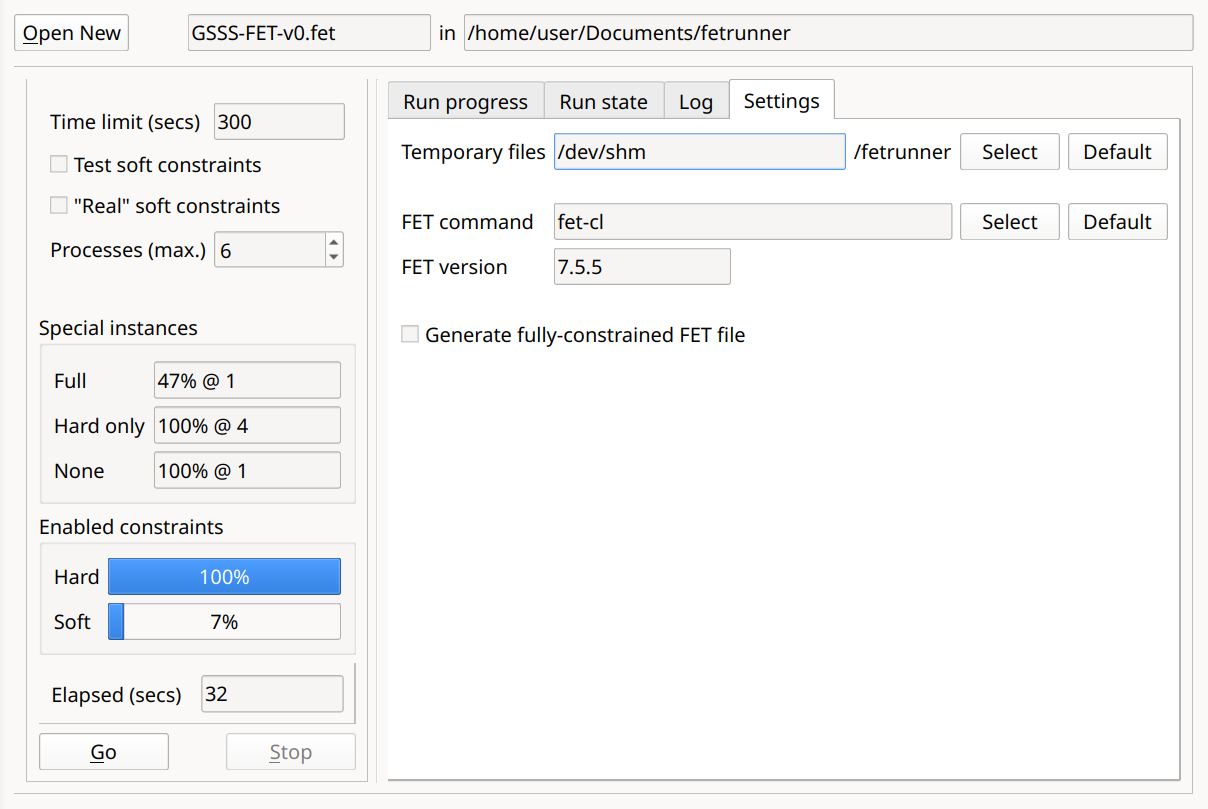
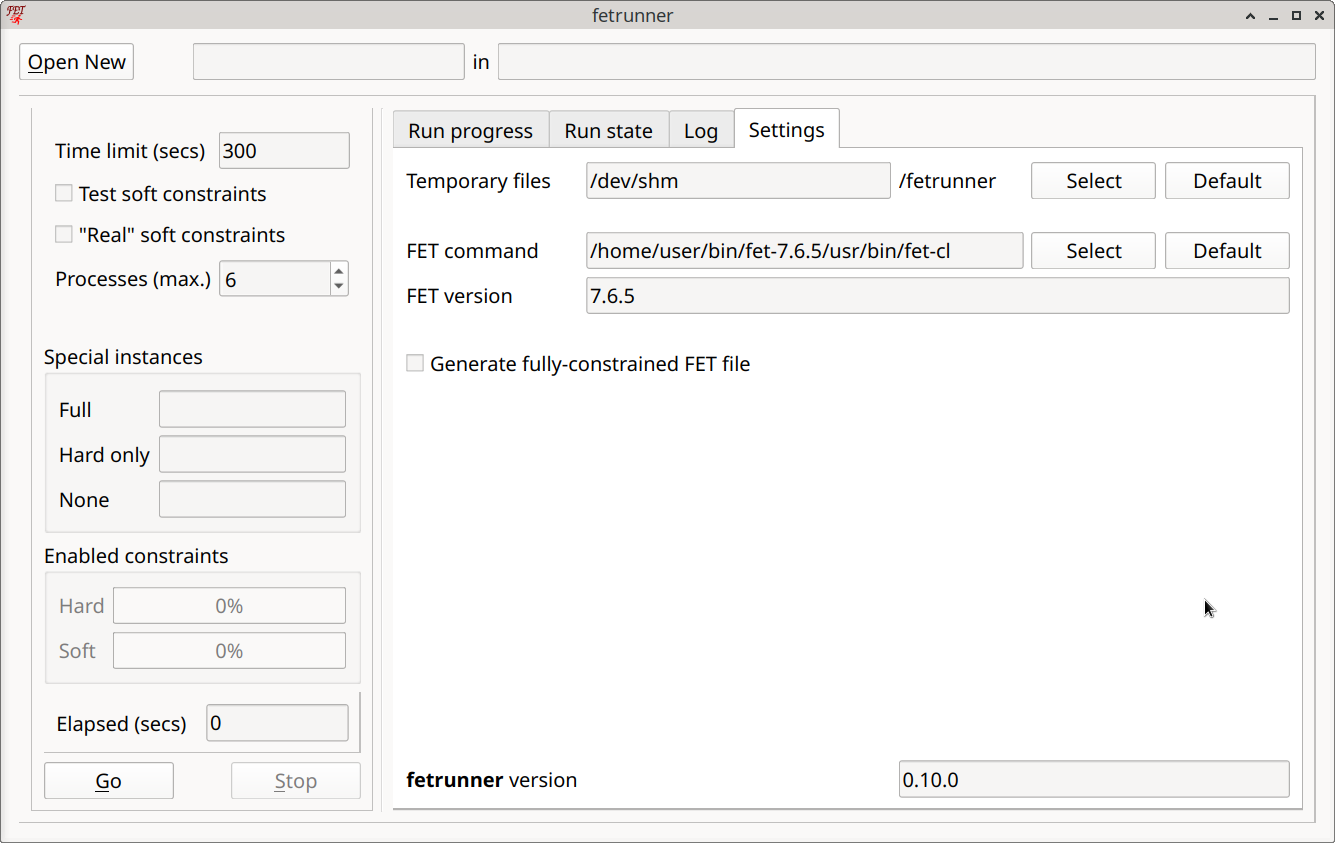
Update docs

Changed region(s): [[0.0, 0.0, 1.0, 1.0], [0.0306, 0.4635, 0.0919, 0.4944], [0.8882, 0.7108, 0.9189, 0.7417]]

diff --git a/docs/using_the_gui.md b/docs/using_the_gui.md
@@ -62,7 +62,23 @@ When all the individual constraints of a type have been "accepted" (found to be 
 
 ![run state tab](./images/Screenshot_03.png)
 
-This table shows the progress (in percent) of the currently running single-constraint-type `FET` instances (i.e. excluding the "special" instances), many of which will be terminated before completion.
+On this page there are two tables. At the top, all the single-constraint-type `FET` instances are shown which completed successfully _and_ which were "accepted", i.e. whose constraints have been added to the running collection.
+
+The numeric columns display (for the associated constraint type):
+
+	1) a simple line number, showing acceptance order;
+
+    2) the number of individual constraints being tested in this instance;
+
+    3) the total number of individual constraints;
+
+This table also shows single constraints which have been "rejected" (because they may be impossible), as can be seen in the following screenshot:
+
+![run state tab, some eliminated](./images/Screenshot_03a.png)
+
+Instead of the number of constraints, "--- [n]" is shown. The number in square brackets is the index given to the rejected constraint in the "xxx_Result.fet" file produced by this run. This should help to find exactly which constraint this line refers to. These entries also have a tool-tip, which can indicate why the constraint was rejected.
+
+At the bottom of the page, the currently running instances are shown together with their progress (in percent) (excluding the "special" instances). Many of these will be terminated before completion. Even if one reaches 100%, it will only be "accepted" (and this transferred to the upper table) if it is the first one in the current group to do so.
 
 The numeric columns display (for the associated constraint type):
 
@@ -75,8 +91,6 @@ The numeric columns display (for the associated constraint type):
     4) the time-out for this process (note that this is handled very flexibly!).
 
 Constraint groups with only one constraint are run without a time-out (shown as "---"), but they may still be terminated if they seem to be "stuck".
-
-When one of these processes reaches 100% it will be "accepted". Its displayed percentage will be changed to "+++" and this group of constraints will be added to the running totals. All the other running instances will be terminated, then restarted after adding the newly accepted constraints. Depending on the time the accepted run took, the time-outs may be adjusted. Note that if more than one of the running instances reach 100% at the same time, only one can be accepted. Rejected instances will be removed from the table.
 
 #### Tab: Log
 
@@ -97,3 +111,5 @@ This gives access to some settings which will not normally be needed, except per
  - Fet version: The version of the selected `FET` program will be shown here.
 
  - Generate fully constrained FET file. This causes a slightly modified version of the original `FET` file to be written to the folder containing the source file. It is given a "_" prefix and contains some additional information added by `fetrunner`. Unless the "Real" soft constraints option is set, any soft constraints will now have "Weight_Percentage" 100, i.e. have become "hard". The original weight is added to the "Comments" field, along with a constraint index.
+
+Also the `fetrunner` version is shown.

diff --git a/README.md b/README.md
@@ -89,4 +89,6 @@ It may, however, be more convenient to use the `CMake` build described below.
 
 ### Building the GUI within `FET`
 
+**TODO**: This has not yet been updated for `FET` versions from 7.7.0 (which use `CMake`).
+
 It may be more convenient to build `fetrunner` inside the `FET` source tree, especially on Windows, where a custom build of `fet-cl` (`fet-clw`) is required anyway. To this end there are `CMakeLists.txt` files (in `fetrunner/fet-cmake`) which can be added to the `FET` sources. See [README_GUI](docs/README_GUI.md) for further details. Basic `CMakeLists.txt` files are also provided for `fet-cl` and `fet`, so that the whole of `FET` could be built together with `fetrunner`. This works and has some advantages, but requires a recent `Qt` version.
